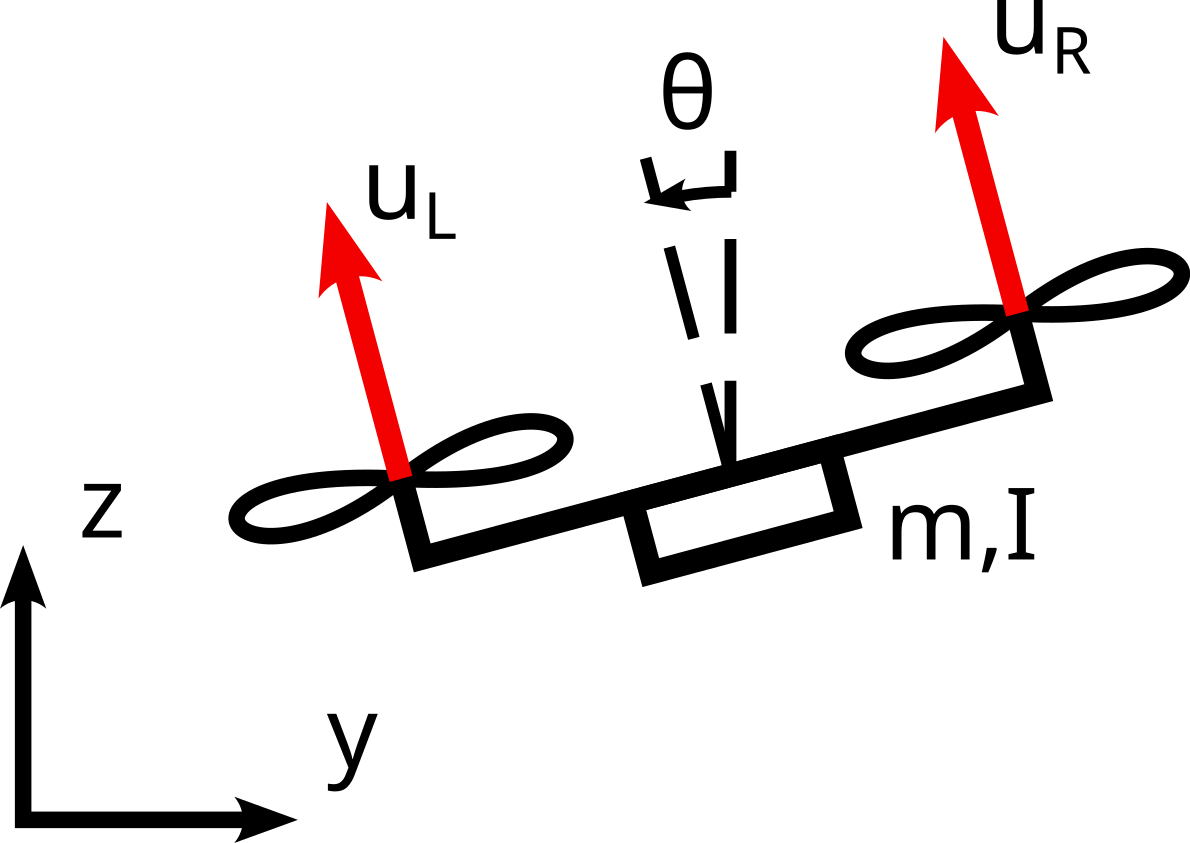
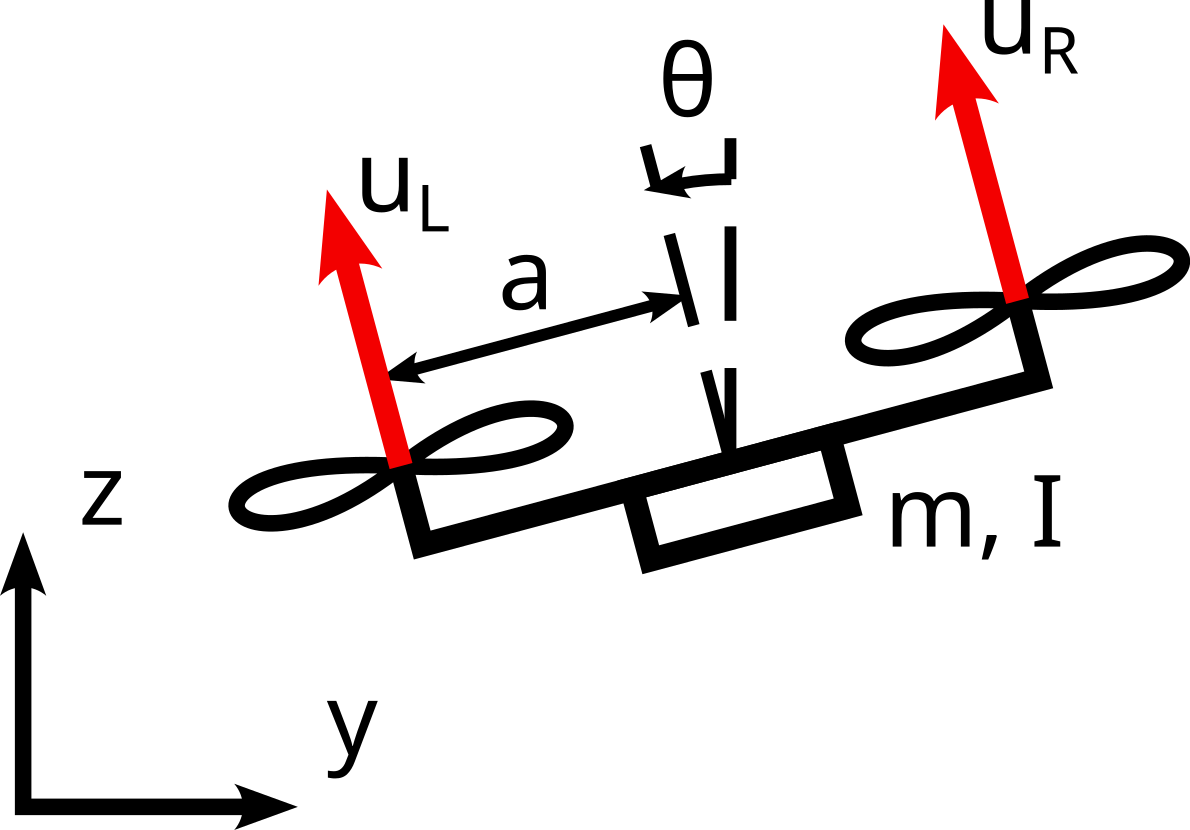
tweaked drawing and target pos and initial state

diff --git a/infinite_horizon.py b/infinite_horizon.py
@@ -141,7 +141,7 @@ def _(mo, np):
         max_value=[5, 6],
         step=0.25,
         debounce=True,
-        label=r"$[y_t, z_t]$",
+        label=r"$p_t$",
     )
 
     controller_dropdown = mo.ui.dropdown(options=["MPC", "LQR"], value="MPC")
@@ -236,9 +236,15 @@ def _(
             "Simulation (number of steps, timestep length, process noise)": mo.vstack(
                 [nstep, timestep, cond_noise]
             ),
-            "Initial state and target position": mo.hstack(
-                [initial_state, target_position], justify="center"
-            ),
+            "Initial state and target position": mo.vstack([
+                mo.md(r"""
+                    - $x = \begin{bmatrix} y & z & \theta & \dot{y} & \dot{z} & \dot{\theta}\end{bmatrix}$
+                    - $p = \begin{bmatrix} y & z \end{bmatrix}$.
+                """), 
+                mo.hstack(
+                    [initial_state, target_position], justify="center"
+                ),
+            ]),
             "Cost weights": mo.vstack(
                 [
                     mo.md(
